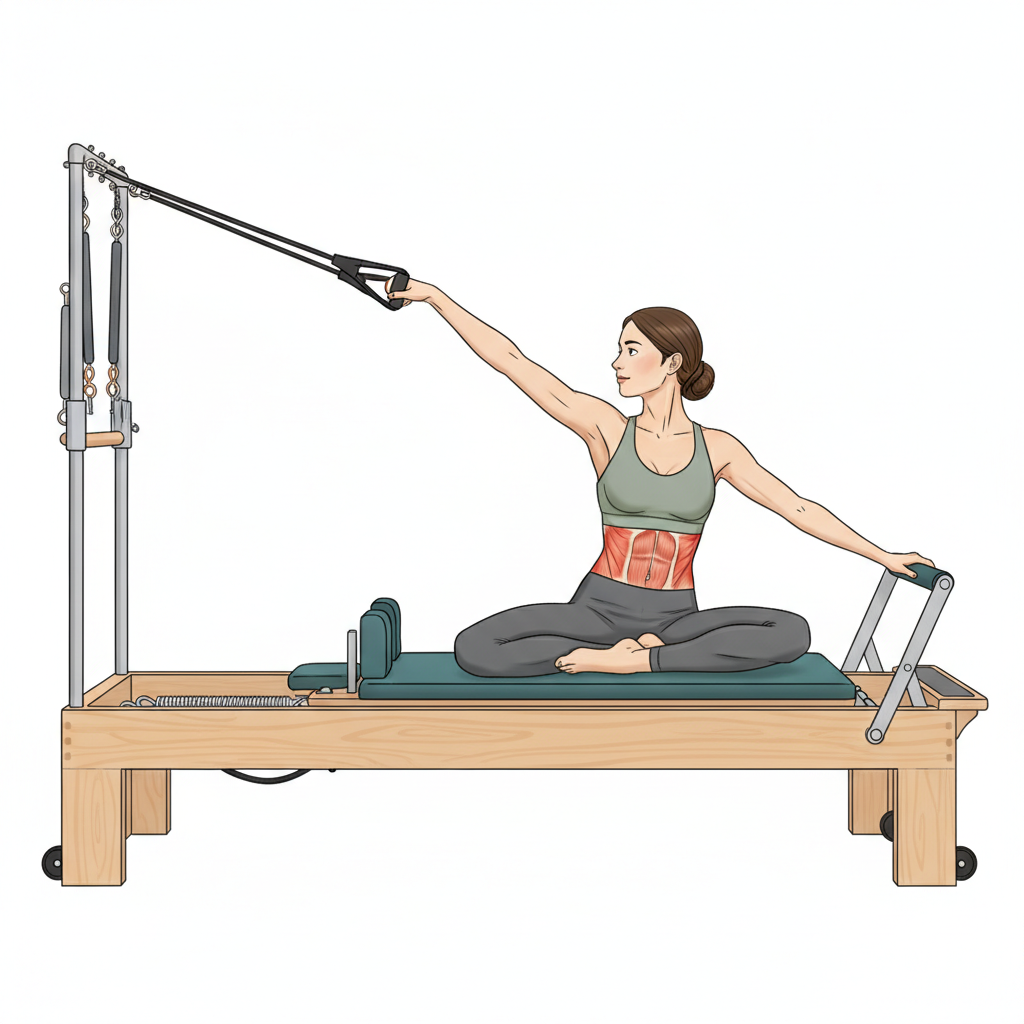
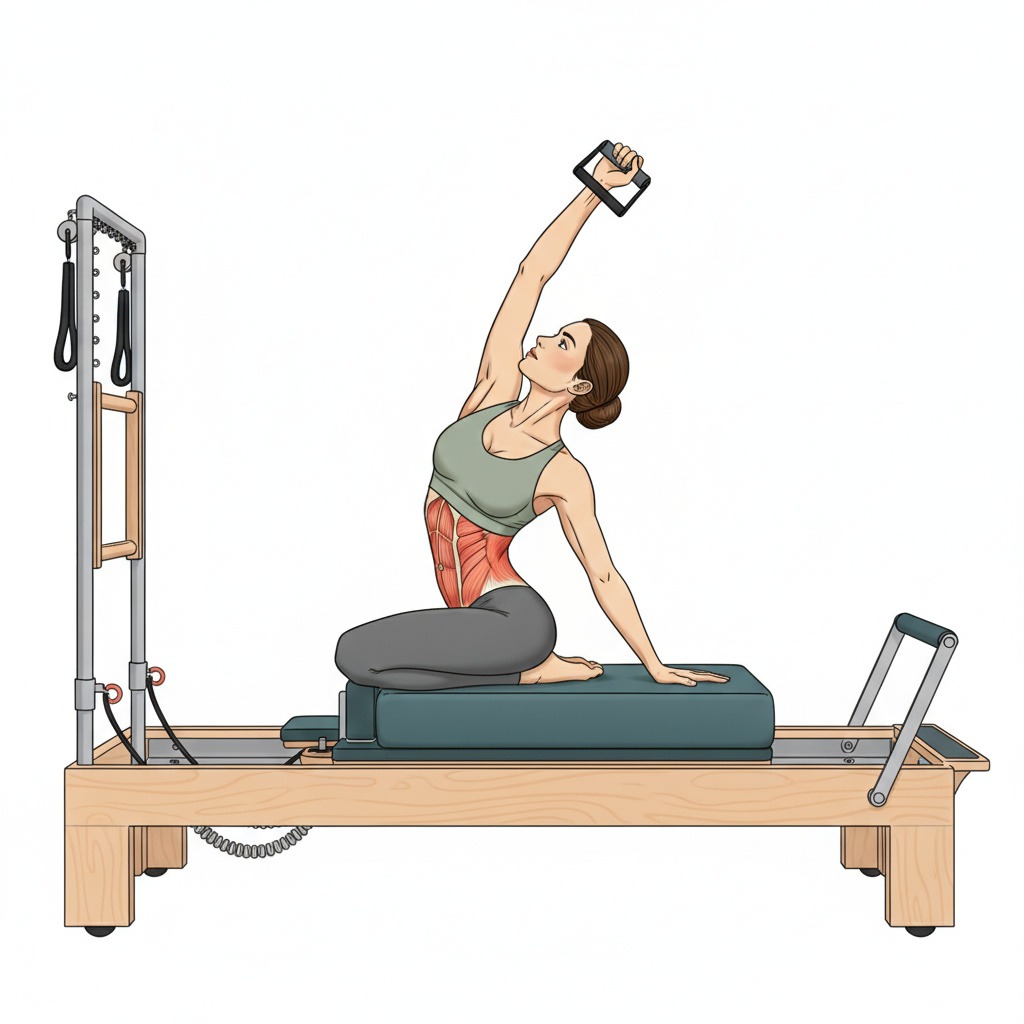
Redraw six reformer exercises that kept drawing wrong
Replaces the artwork for supine-triceps-press, supine-chicken-wings, supine-angels, roll-down-mermaid, footwork-single-leg-heel-toes and knee-stretch-scooter.

Each pose now pins one exact moment, states what the side view must show, and names the wrong poses to avoid - the remedy STYLE.md prescribes for poses that keep coming out wrong.

- supine-triceps-press: the start position just before the press, not sitting up.
- supine-chicken-wings: goalpost arms with both forearms vertical.
- supine-angels: the middle of the snow-angel arc, hands low, palms up.
- roll-down-mermaid: faces the viewer so the side bend reads as a crescent; a single strap and the box, explicitly not rowing - the old equipment wording was probably producing the rowing picture.
- footwork-single-leg-heel-toes: heel on the centre of the bar, other leg in tabletop. The pose leads with the bent leg, because the model straightens it whenever 'almost straight' is mentioned first.
- knee-stretch-scooter: standing hinge, not kneeling, with the working foot braced on the carriage. It also gains 'carriage' in its equipment list, since APPARATUS requires correct contact with every item named.

Verified: prompts rebuilt, tsc --noEmit clean, 199/199 tests pass.

Changed region(s): [[0.0312, 0.125, 0.9688, 0.9375]]

diff --git a/src/assets/movement/reformer/PROMPTS.md b/src/assets/movement/reformer/PROMPTS.md
@@ -297,7 +297,7 @@ HIGHLIGHT — the ONLY muscles drawn in strong coral red are: the plantar flexor
 **File:** `footwork-single-leg-heel-toes.png` · **Springs:** light–medium (2 red) · **Muscles:** quads, hamstrings, obliques, core
 
 ```text
-POSE — she lies supine on the carriage with one heel hooked over the footbar and the other leg extended low in the air just above the carriage, pelvis level and square, one arm long at her side. The carriage is pressed out on a single leg.
+POSE — she holds her near knee bent to ninety degrees, that thigh vertical and that shin horizontal and level with the floor in a table shape, with that foot floating in the air above the carriage. She lies flat on her back and face up with arms by her sides, and her other heel rests on the centre of the footbar with that leg almost straight, the carriage pushed out toward the foot end. The bent knee stays bent throughout, and that shin never points up at the ceiling. She is not face down, not in a plank and not propped on her hands.
 
 HIGHLIGHT — the ONLY muscles drawn in strong coral red are: the quadriceps and hamstrings of the working leg on the bar, plus the deep obliques and multifidus of the waist. Nothing else is red. Her neck, face, arms, hands, torso, hips, legs, feet and all other musculature stay plain illustrated skin in its normal tone, with no red tint whatsoever. Most of her body must be un-highlighted — expect a small, localised red area, not an anatomy chart.
 ```
@@ -336,7 +336,7 @@ HIGHLIGHT — the ONLY muscles drawn in strong coral red are: the quadriceps and
 **File:** `supine-chicken-wings.png` · **Springs:** light (1 red) · **Muscles:** chest, shoulders, core
 
 ```text
-POSE — she lies supine on the carriage holding a strap handle in each hand, both arms opened wide at shoulder height with the elbows bent to 90 degrees so the forearms point up, palms facing forward, ribs knitted down and pelvis neutral, legs long on the carriage. The straps are drawn out to the sides.
+POSE — she lies flat on her back, face up, a strap handle in each hand. Her arms make a goalpost shape: upper arms straight out at shoulder height and level with the carriage, elbows bent to ninety degrees so both forearms point straight up at the ceiling. From the side the near forearm stands upright above its elbow and the far arm mirrors it. The straps run back to the pulleys. She is not face down, not kneeling and not on a box.
 
 HIGHLIGHT — the ONLY muscles drawn in strong coral red are: the pectorals across the chest and the front of the shoulders. If they are visible in this view, a lighter, softer coral tint may sit on: the abdominals engaged to hold the ribs down — clearly paler than the primary area, never the same strength. Nothing else is red. Her neck, face, arms, hands, torso, hips, legs, feet and all other musculature stay plain illustrated skin in its normal tone, with no red tint whatsoever. Most of her body must be un-highlighted — expect a small, localised red area, not an anatomy chart.
 ```
@@ -360,7 +360,7 @@ HIGHLIGHT — the ONLY muscles drawn in strong coral red are: the latissimus dor
 **File:** `supine-angels.png` · **Springs:** light (1 red) · **Muscles:** back, lats, shoulders, core
 
 ```text
-POSE — she lies supine on the carriage holding a strap handle in each hand, arms swept down beside her hips then arcing wide and long over her head in a big slow angel circle, palms turning as they travel, ribs down and legs long and still on the carriage.
+POSE — she lies flat on her back, face up, straight arms sweeping in a wide snow-angel arc from her hips toward her head, her hands staying low and about level with the carriage. This is the middle of the arc: her arms are halfway between straight out to the sides and straight overhead, palms up. She is not sitting, not rolled onto her side and not reaching up to the ceiling.
 
 HIGHLIGHT — the ONLY muscles drawn in strong coral red are: the latissimus dorsi, teres minor, infraspinatus and rear deltoids. If they are visible in this view, a lighter, softer coral tint may sit on: the abdominals and the serratus anterior along the ribs — clearly paler than the primary area, never the same strength. Nothing else is red. Her neck, face, arms, hands, torso, hips, legs, feet and all other musculature stay plain illustrated skin in its normal tone, with no red tint whatsoever. Most of her body must be un-highlighted — expect a small, localised red area, not an anatomy chart.
 ```
@@ -372,7 +372,7 @@ HIGHLIGHT — the ONLY muscles drawn in strong coral red are: the latissimus dor
 **File:** `supine-triceps-press.png` · **Springs:** light (1–2 red) · **Muscles:** triceps, shoulders
 
 ```text
-POSE — she lies supine on the carriage holding a strap handle in each hand, both upper arms held still alongside her ribs with the elbows bent sharply and the hands beside her ears, then the elbows straighten to press the straps down beside her hips. Legs long on the carriage.
+POSE — she lies flat on her back, face up, head on the raised headrest, both legs long and together on the carriage, a strap handle in each hand. Her upper arms are pinned flat on the carriage beside her ribs and her elbows are bent sharply so her hands are up by her shoulders. The straps run back over her shoulders to the pulleys. This is the start position, just before she presses down. She is not sitting up, not kneeling and not face down.
 
 HIGHLIGHT — the ONLY muscles drawn in strong coral red are: the triceps on the back of both upper arms. If they are visible in this view, a lighter, softer coral tint may sit on: the shoulder stabilisers — clearly paler than the primary area, never the same strength. Nothing else is red. Her neck, face, arms, hands, torso, hips, legs, feet and all other musculature stay plain illustrated skin in its normal tone, with no red tint whatsoever. Most of her body must be un-highlighted — expect a small, localised red area, not an anatomy chart.
 ```
@@ -768,7 +768,7 @@ HIGHLIGHT — the ONLY muscles drawn in strong coral red are: the abdominals and
 **File:** `roll-down-mermaid.png` · **Springs:** light (1 red) · **Muscles:** obliques, ql, lats, chest, triceps
 
 ```text
-POSE — she sits tall with legs folded to one side on the long box, one arm reaching overhead in a long side-bend curve toward the opposite side, the other arm relaxed, creating a crescent moon shape through the waist and ribs.
+POSE — she faces the viewer — the only exercise drawn that way — while the reformer itself stays side-on. She sits sideways on the long box with both legs folded to one side, so the side bend reads as a crescent shape. Her arm nearest the pulleys holds a single strap and reaches up and over her head, and her body bends away from the pulleys in one long curve from hip to fingertips. Her other hand rests on the box. She is not cross-legged and not rowing.
 
 HIGHLIGHT — the ONLY muscles drawn in strong coral red are: the quadratus lumborum and the internal and external obliques along the side waist. If they are visible in this view, a lighter, softer coral tint may sit on: the latissimus dorsi, pectorals and triceps — clearly paler than the primary area, never the same strength. Nothing else is red. Her neck, face, arms, hands, torso, hips, legs, feet and all other musculature stay plain illustrated skin in its normal tone, with no red tint whatsoever. Most of her body must be un-highlighted — expect a small, localised red area, not an anatomy chart.
 ```
@@ -969,7 +969,7 @@ HIGHLIGHT — the ONLY muscles drawn in strong coral red are: the spinal extenso
 **File:** `knee-stretch-scooter.png` · **Springs:** light (1 red) · **Muscles:** glutes, hamstrings, quads, hip-flexors
 
 ```text
-POSE — she kneels on the carriage facing the footbar with both hands on the bar, one knee down on the carriage and the other foot flat on the floor beside the frame, pressing the carriage back with the down knee and drawing it home, torso level and still.
+POSE — she stands on the floor beside the footbar facing the foot end of the reformer, her standing knee soft. She hinges forward with a flat back and both hands on the bar. Her working foot is on the carriage behind her, braced against the shoulder block, pushing the carriage back. She is not kneeling: one foot is on the carriage and one is on the floor.
 
 HIGHLIGHT — the ONLY muscles drawn in strong coral red are: the gluteus maximus, hamstrings and quadriceps of the working leg. If they are visible in this view, a lighter, softer coral tint may sit on: the hip flexors of the back leg lengthening — clearly paler than the primary area, never the same strength. Nothing else is red. Her neck, face, arms, hands, torso, hips, legs, feet and all other musculature stay plain illustrated skin in its normal tone, with no red tint whatsoever. Most of her body must be un-highlighted — expect a small, localised red area, not an anatomy chart.
 ```
